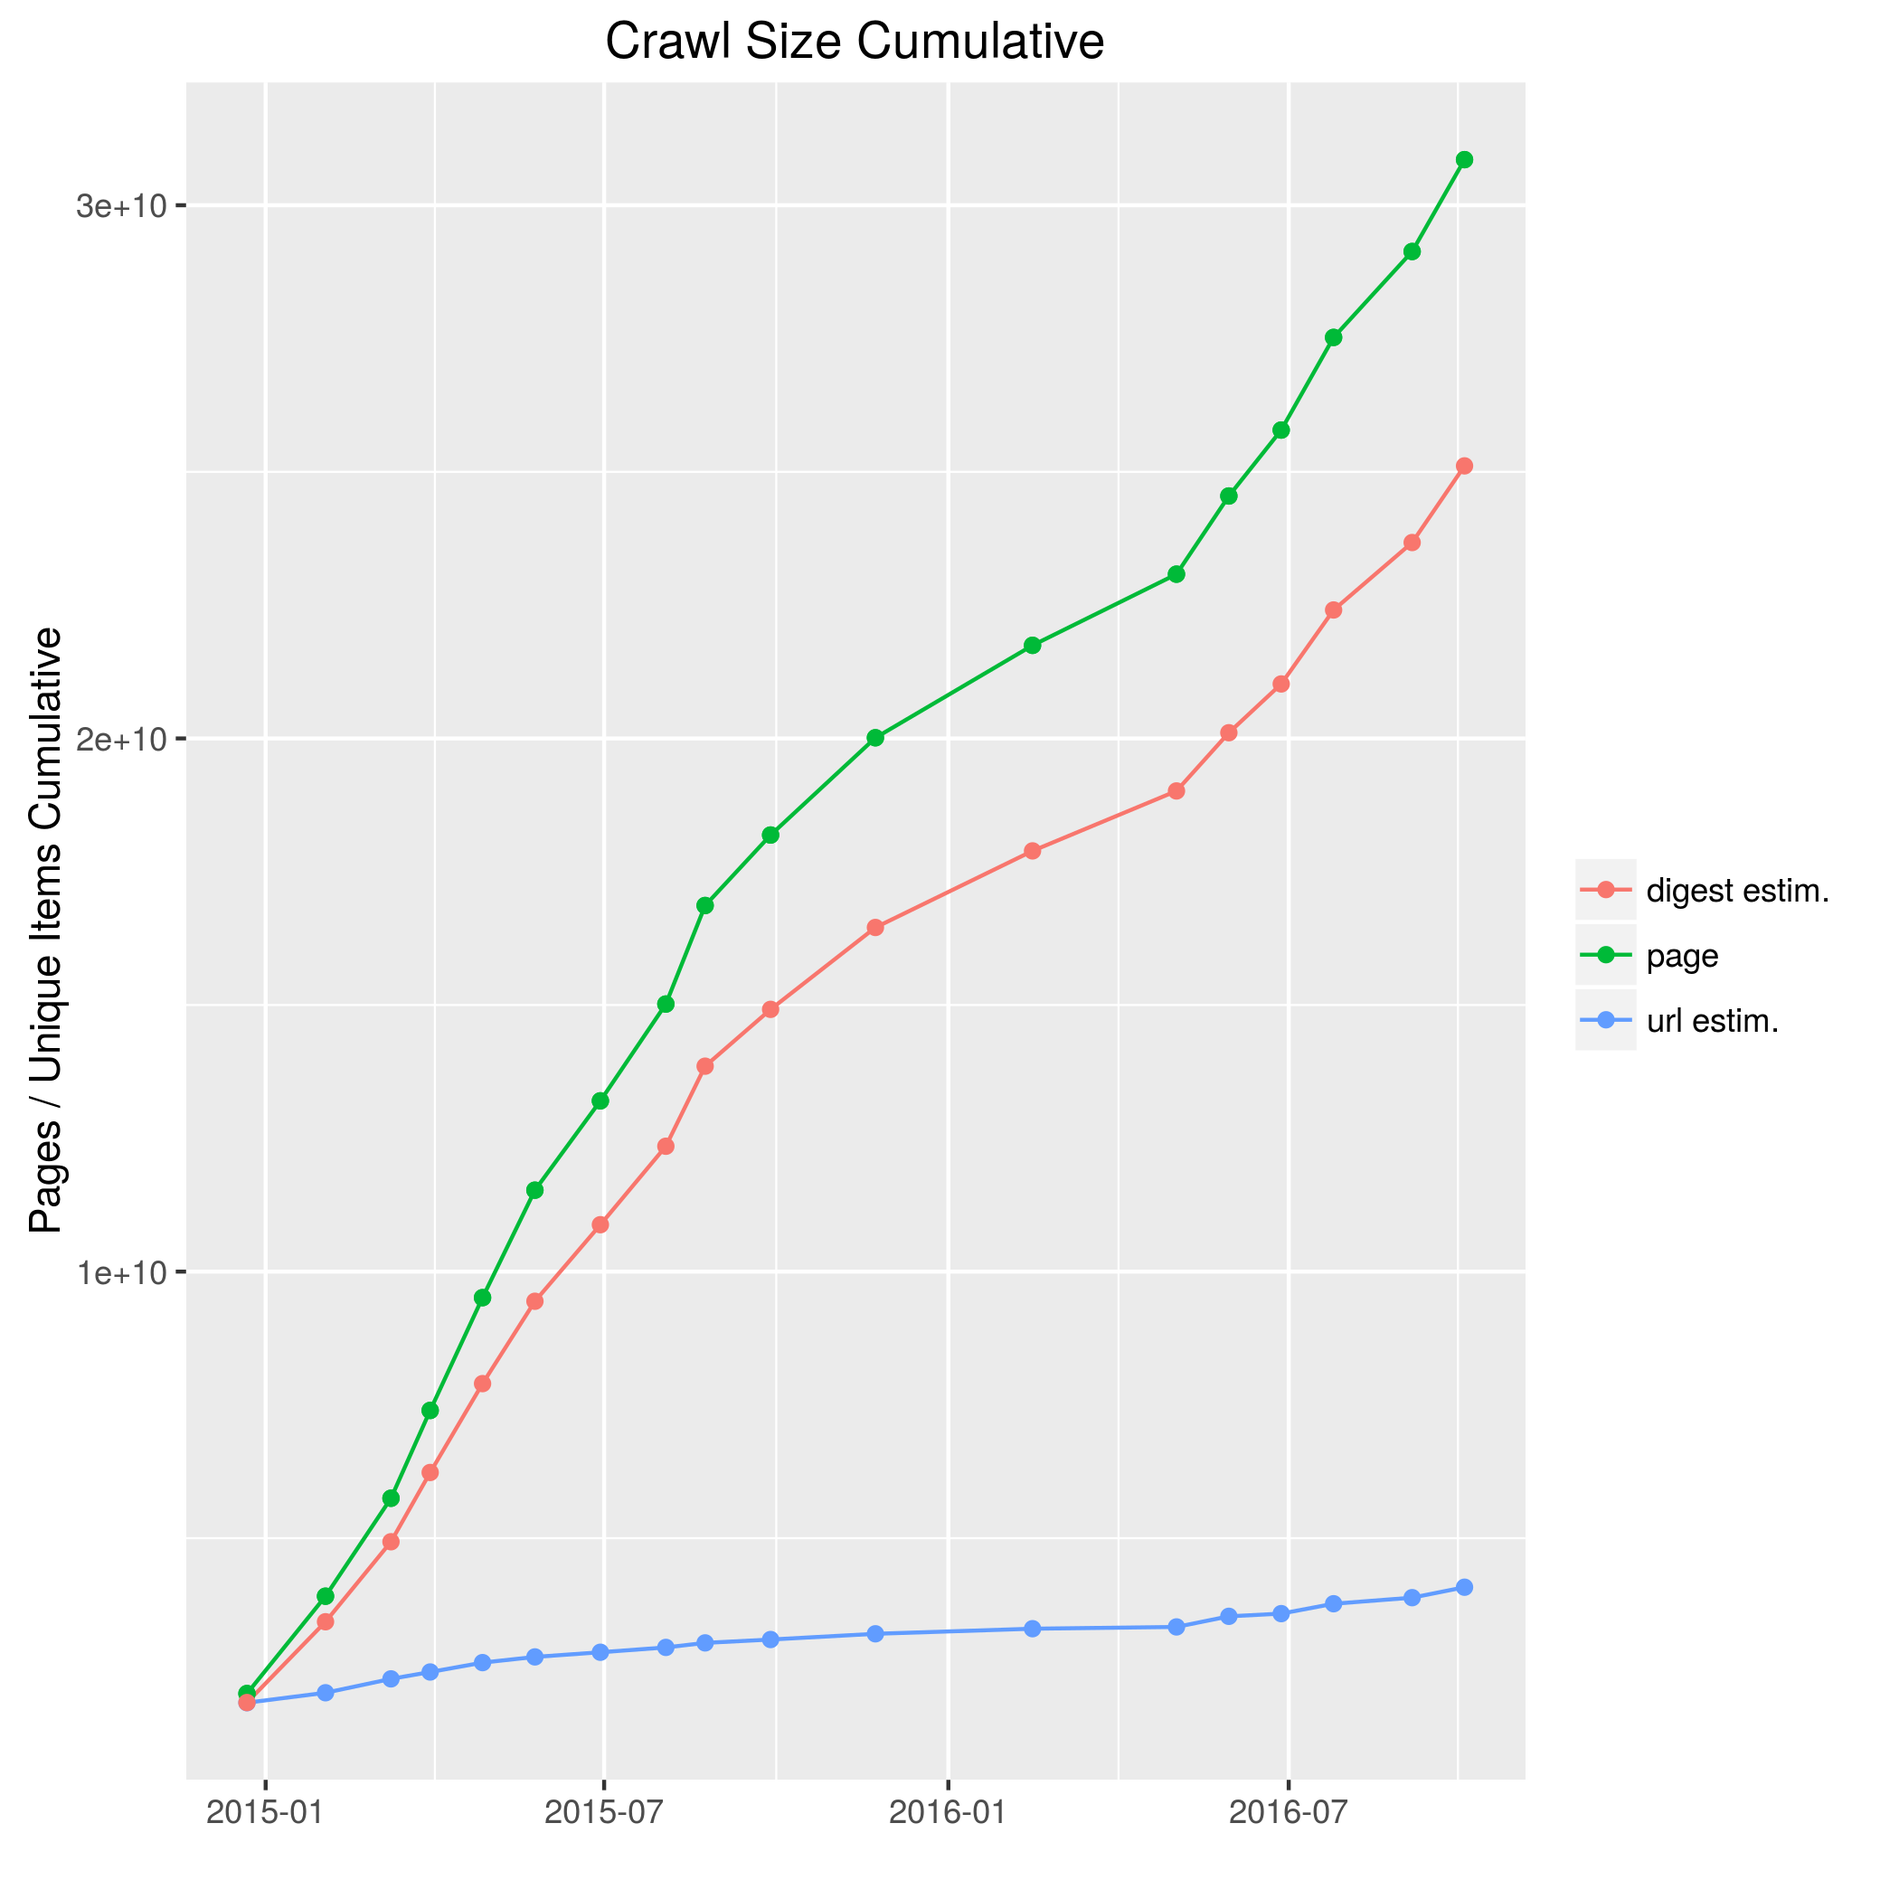
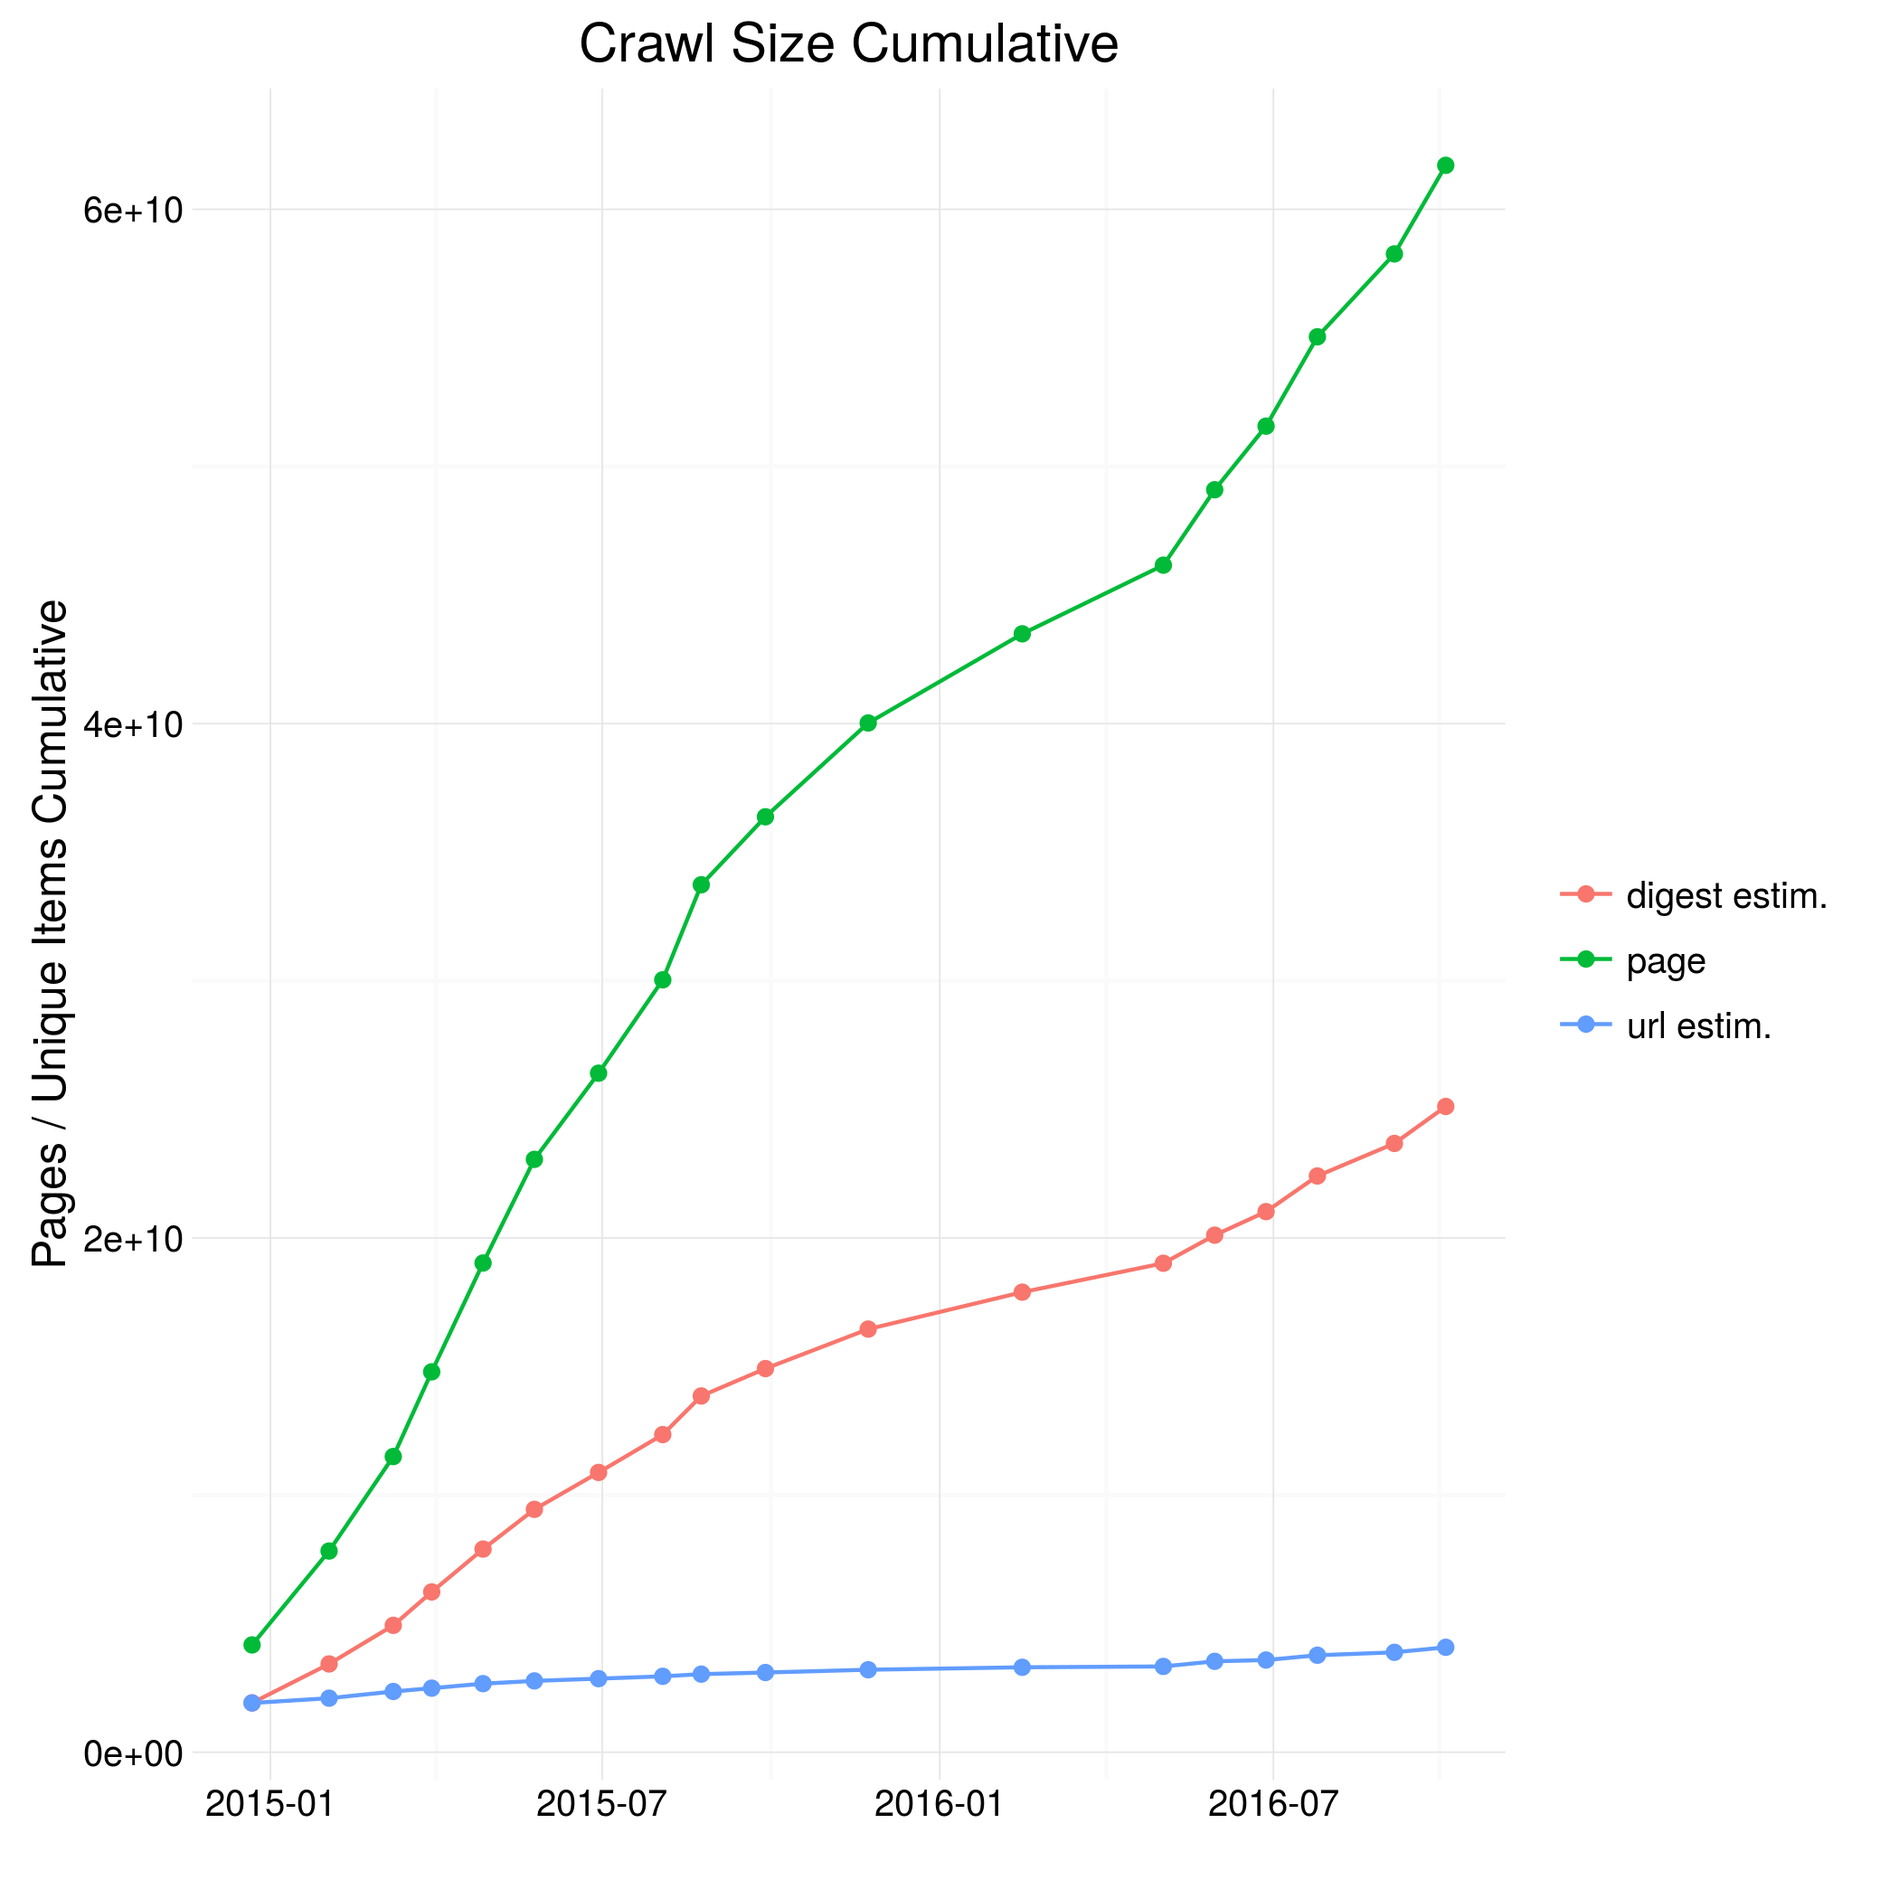
- add crawler-related metrics: crawldb size, fetch status, etc. - use minimal theme - refactoring to share code

diff --git a/plot_crawl_size.py b/plot_crawl_size.py
@@ -15,6 +15,7 @@ class CrawlSizePlot(CrawlPlot):
     def __init__(self):
         self.size = defaultdict(dict)
         self.size_by_type = defaultdict(dict)
+        self.type_index = defaultdict(dict)
         self.crawls = {}
         self.ncrawls = 0
         self.hll = defaultdict(dict)
@@ -45,11 +46,20 @@ class CrawlSizePlot(CrawlPlot):
             self.ncrawls += 1
         else:
             date = self.size['date'][self.crawls[crawl]]
+        if item_type in self.size and \
+                self.crawls[crawl] in self.size[item_type]:
+            # add count to existing
+            count += self.size[item_type][self.crawls[crawl]]
+            self.size[item_type][self.crawls[crawl]] = count
+            _N = self.type_index[item_type][self.crawls[crawl]]
+            self.size_by_type['size'][_N] = count
+            return
         self.size[item_type][self.crawls[crawl]] = count
         self.size_by_type['crawl'][self.N] = crawl
         self.size_by_type['date'][self.N] = date
         self.size_by_type['type'][self.N] = item_type
         self.size_by_type['size'][self.N] = count
+        self.type_index[item_type][self.crawls[crawl]] = self.N
         self.N += 1
 
     def cumulative_size(self):
@@ -89,10 +99,11 @@ class CrawlSizePlot(CrawlPlot):
                     self.add_by_type(crawl, item_type_n_crawls, size_last_n)
 
     def transform_data(self):
-        self.cumulative_size()
         self.size = pandas.DataFrame(self.size)
-        self.size.to_csv('data/crawlsize.csv')
         self.size_by_type = pandas.DataFrame(self.size_by_type)
+
+    def save_data(self):
+        self.size.to_csv('data/crawlsize.csv')
         self.size_by_type.to_csv('data/crawlsizebytype.csv')
 
     def plot(self):
@@ -124,10 +135,11 @@ class CrawlSizePlot(CrawlPlot):
         data = self.size_by_type
         data = data[data['type'].isin(row_types)]
         data.replace(to_replace='url', value='1 crawl', inplace=True)
-        self.size_plot(data, row_types, '^url estim\. cumul\. last ',
+        self.size_plot(data, row_types, '^url estim\. cumul\. last | crawls?$',
                        'URLs Cumulative Over Last N Crawls',
                        'Unique URLs cumulative',
-                       'crawlsize_url_last_n_crawls.png')
+                       'crawlsize_url_last_n_crawls.png',
+                       clabel='n crawls')
         # -- cumul. digests over last N crawls (this and preceding N-1 crawls)
         row_types = ['digest estim.', '1 crawl',  # 'url' replaced by '1 crawl'
                      'digest estim. cumul. last 2 crawls',
@@ -138,10 +150,11 @@ class CrawlSizePlot(CrawlPlot):
         data = data[data['type'].isin(row_types)]
         data.replace(to_replace='digest estim.', value='1 crawl', inplace=True)
         self.size_plot(data, row_types,
-                       '^digest estim\. cumul\. last ',
+                       '^digest estim\. cumul\. last | crawls?$',
                        'Content Digest Cumulative Over Last N Crawls',
                        'Unique content digests cumulative',
-                       'crawlsize_digest_last_n_crawls.png')
+                       'crawlsize_digest_last_n_crawls.png',
+                       clabel='n crawls')
         # -- URLs, hosts, domains, tlds (normalized)
         data = self.size_by_type
         row_types = ['url', 'tld', 'domain', 'host']
@@ -166,19 +179,24 @@ class CrawlSizePlot(CrawlPlot):
                        'Unique Items', 'crawlsize_domain.png')
 
     def size_plot(self, data, row_filter, type_name_norm,
-                  title, ylabel, img_file):
+                  title, ylabel, img_file, clabel=''):
         if len(row_filter) > 0:
             data = data[data['type'].isin(row_filter)]
         if type_name_norm is not '':
             for value in row_filter:
                 if re.search(type_name_norm, value):
-                    replacement = re.sub(type_name_norm, '', value)
+                    replacement = value
+                    while re.search(type_name_norm, replacement):
+                        replacement = re.sub(type_name_norm, '', replacement)
                     data.replace(to_replace=value, value=replacement,
                                  inplace=True)
-        return self.line_plot(data, title, ylabel, img_file)
+        return self.line_plot(data, title, ylabel, img_file,
+                              x='date', y='size', c='type', clabel=clabel)
 
 if __name__ == '__main__':
     plot = CrawlSizePlot()
     plot.read_data(sys.stdin)
+    plot.cumulative_size()
     plot.transform_data()
+    plot.save_data()
     plot.plot()

diff --git a/plot_crawler_metrics.py b/plot_crawler_metrics.py
@@ -1,0 +1,100 @@
+import os
+import re
+import sys
+
+from rpy2.robjects.lib import ggplot2
+from rpy2.robjects import pandas2ri
+
+from crawlplot import PLOTDIR
+from crawlstats import CST
+from plot_crawl_size import CrawlSizePlot
+
+pandas2ri.activate()
+
+
+class CrawlerMetrics(CrawlSizePlot):
+
+    metrics_map = {
+        'fetcher:redirect': ('fetcher:temp_moved', 'fetcher:moved'),
+        'fetcher:denied':   ('fetcher:access_denied', 'fetcher:robots_denied',
+                             'fetcher:robots_denied_maxcrawldelay',
+                             'fetcher:filter_denied'),
+        'fetcher:failed':   ('fetcher:gone', 'fetcher:notfound',
+                             'fetcher:exception'),
+        'fetcher:skipped':  ('fetcher:hitByThrougputThreshold',
+                             'fetcher:hitByTimeLimit',
+                             'fetcher:AboveExceptionThresholdInQueue')
+    }
+
+    def add(self, key, val):
+        cst = CST[key[0]]
+        item_type = key[1]
+        if not (cst == CST.crawl_status or
+                (cst == CST.size and item_type in ('page', 'url'))):
+            return
+        crawl = key[2]
+        self.add_by_type(crawl, item_type, val)
+        for metric in self.metrics_map:
+            if item_type in self.metrics_map[metric]:
+                self.add_by_type(crawl, metric, val)
+
+    def save_data(self):
+        self.size.to_csv('data/crawlmetrics.csv')
+        self.size_by_type.to_csv('data/crawlmetricsbytype.csv')
+
+    def add_percent(self):
+        for crawl in self.crawls:
+            total = self.size['fetcher:total'][self.crawls[crawl]]
+            for item_type in self.type_index:
+                if item_type.startswith('fetcher:') and \
+                        item_type != 'fetcher:total':
+                    count = self.size[item_type][self.crawls[crawl]]
+                    _N = self.type_index[item_type][self.crawls[crawl]]
+                    self.size_by_type['percentage'][_N] = 100.0*count/total
+
+
+    def plot(self):
+        # -- line plot
+        row_types = ['generator:crawldb_size', 'generator:fetch_list',
+                     'fetcher:success', 'fetcher:total', 'fetcher:redirect',
+                     'fetcher:failed', 'fetcher:denied', 'fetcher:skipped']
+        self.size_plot(self.size_by_type, row_types, '(?<=^fetch)er|^generator:',
+                       'Crawl Metrics', 'Pages',
+                       'crawler_metrics.png')
+        # -- stacked bar plot
+        row_types = ['fetcher:success', 'fetcher:redirect',
+                     'fetcher:failed', 'fetcher:denied', 'fetcher:skipped']
+        ratio = 0.1 + self.ncrawls * .05
+        self.plot_stacked_bar(self.size_by_type, row_types,
+                              'crawler_fetch_status.png', ratio=ratio)
+
+    def plot_stacked_bar(self, data, row_filter, img_file, ratio=1.0):
+        if len(row_filter) > 0:
+            data = data[data['type'].isin(row_filter)]
+        for value in row_filter:
+            if re.search('^fetcher:', value):
+                replacement = re.sub('^fetcher:', '', value)
+                data.replace(to_replace=value, value=replacement, inplace=True)
+        # print(data)
+        p = ggplot2.ggplot(data) \
+            + ggplot2.aes_string(x='crawl', y='percentage', fill='type') \
+            + ggplot2.geom_bar(stat='identity', position='stack', width=.9) \
+            + ggplot2.coord_flip() \
+            + ggplot2.scale_fill_brewer(palette='RdYlGn', type='sequential',
+                                        guide=ggplot2.guide_legend(reverse=True)) \
+            + ggplot2.theme_minimal() \
+            + ggplot2.theme(**{'legend.position': 'bottom',
+                               'aspect.ratio': ratio}) \
+            + ggplot2.labs(title='Percentage of Fetch Status', x='', y='', fill='')
+        img_path = os.path.join(PLOTDIR, img_file)
+        p.save(img_path)
+        return p
+
+
+if __name__ == '__main__':
+    plot = CrawlerMetrics()
+    plot.read_data(sys.stdin)
+    plot.add_percent()
+    plot.transform_data()
+    plot.save_data()
+    plot.plot()

diff --git a/crawlplot.py b/crawlplot.py
@@ -25,12 +25,13 @@ class CrawlPlot:
             else:
                 logging.error("Not a key-value pair: {}".find(line))
 
-    def line_plot(self, data, title, ylabel, img_file):
+    def line_plot(self, data, title, ylabel, img_file,
+                  x='date', y='size', c='type', clabel=''):
         if PLOTLIB == 'ggplot':
             # date_label = "%Y\n%b"
             date_label = "%Y\n%W"  # year + week number
             p = ggplot(data,
-                       aes(x='date', y='size', color='type')) \
+                       aes(x=x, y=y, color=c)) \
                 + ggtitle(title) \
                 + ylab(ylabel) \
                 + xlab(' ') \
@@ -38,13 +39,14 @@ class CrawlPlot:
                                labels=date_label) \
                 + geom_line() + geom_point()
         elif PLOTLIB == 'rpy2.ggplot2':
-            # convert size to float because R uses 32-bit signed integers,
+            # convert y axis to float because R uses 32-bit signed integers,
             # values > 2 bln. (2^31) will overflow
-            data['size'] = data['size'].astype(float)
+            data[y] = data[y].astype(float)
             p = ggplot2.ggplot(data) \
-                + ggplot2.aes_string(x='date', y='size', color='type') \
+                + ggplot2.aes_string(x=x, y=y, color=c) \
                 + ggplot2.geom_line() + ggplot2.geom_point() \
-                + ggplot2.labs(title=title, x='', y=ylabel, color='')
+                + ggplot2.theme_minimal() \
+                + ggplot2.labs(title=title, x='', y=ylabel, color=clabel)
         img_path = os.path.join(PLOTDIR, img_file)
         p.save(img_path)
         # data.to_csv(img_path + '.csv')

diff --git a/plots/crawlermetrics.md b/plots/crawlermetrics.md
@@ -1,0 +1,20 @@
+Crawler-Related Metrics
+=======================
+
+Crawler-related metrics are extracted from the crawler log files, cf. [../stats/crawler/].
+Metrics include
+- the size of the URL database (CrawlDb)
+- the fetch list size (number of URLs scheduled for fetching)
+- the response status of the fetch:
+  - success
+  - redirect
+  - denied (forbidden by HTTP 403 or robots.txt)
+  - failed (404, host not found, etc.)
+
+The first plot shows absolute number for the metrics.
+
+![crawler metrics](./crawler_metrics.png)
+
+The relative portion of the fetch status is shown in the second graphics.
+
+![percentage of fetch status](./crawler_fetch_status.png)

diff --git a/README.md b/README.md
@@ -60,6 +60,7 @@ Public Data Set bucket on AWS S3:
 while read crawl; do
     aws s3 cp s3://commoncrawl/crawl-analysis/$crawl/stats/part-00000.gz ./stats/$crawl.gz
 done <<EOF
+CC-MAIN-2016-40
 CC-MAIN-2016-36
 CC-MAIN-2016-30
 CC-MAIN-2016-26
@@ -83,3 +84,5 @@ To prepare the plots:
 ```
 gzip -dc stats/CC-MAIN-*.gz | python3 plot_crawl_size.py
 ```
+The full list of commands to prepare all plots is found in [plot.sh].
+Also the plots are available, see [plots/].

diff --git a/stats/crawler/README.md b/stats/crawler/README.md
@@ -1,0 +1,7 @@
+Crawler-Related Metrics
+=======================
+
+JSON files in this folder contain metrics
+- written by the crawler ([Apache Nutch](http://nutch.apache.org/) in a [modified version](https://github.com/commoncrawl/nutch/) adapted for Common Crawl) as Hadoop job counters,
+- extracted from crawler log files, and
+- saved in the JSON-based, tab-separated key-value output format used by [mrjob](https://pythonhosted.org/mrjob/)

diff --git a/plots/README.md b/plots/README.md
@@ -1,0 +1,6 @@
+Plots about Common Crawl Monthly Archives
+=========================================
+
+* [size of the crawls](crawlsize.md) - number of pages, unique URLs, hosts, domains, TLDs
+* [crawler-related metrics](crawlermetrics.md) - fetch status, etc.
+* [overlaps between monthly crawls](crawloverlap.md)
